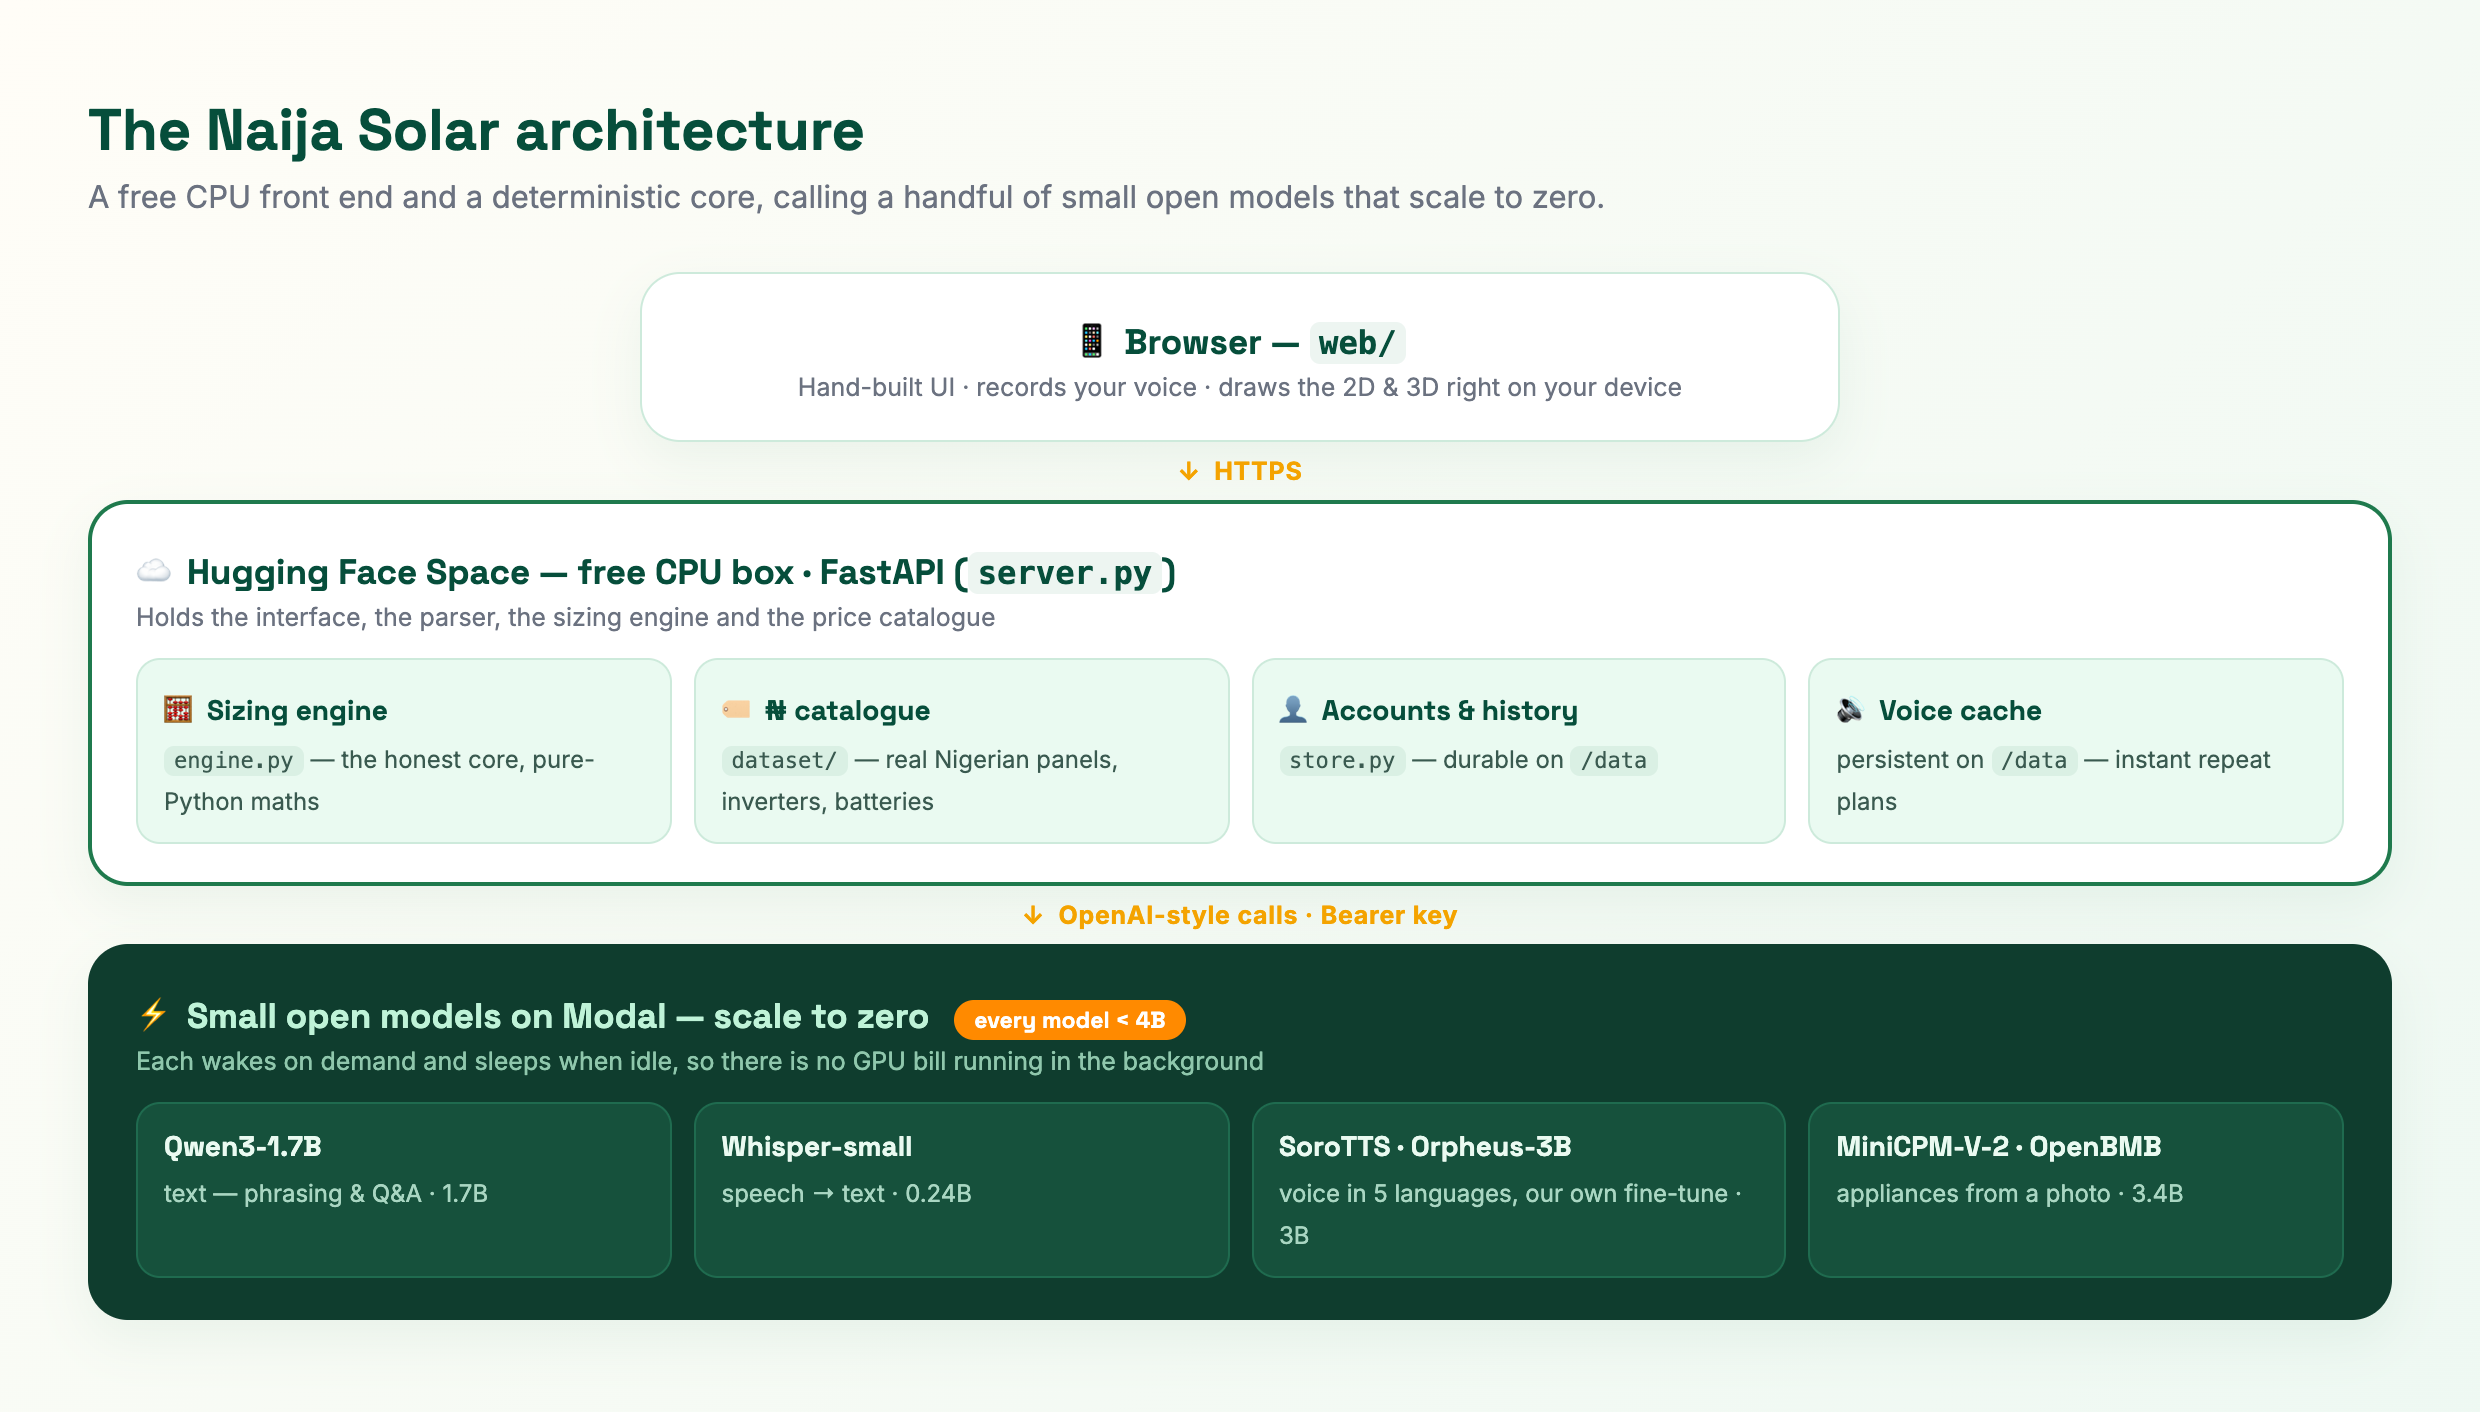
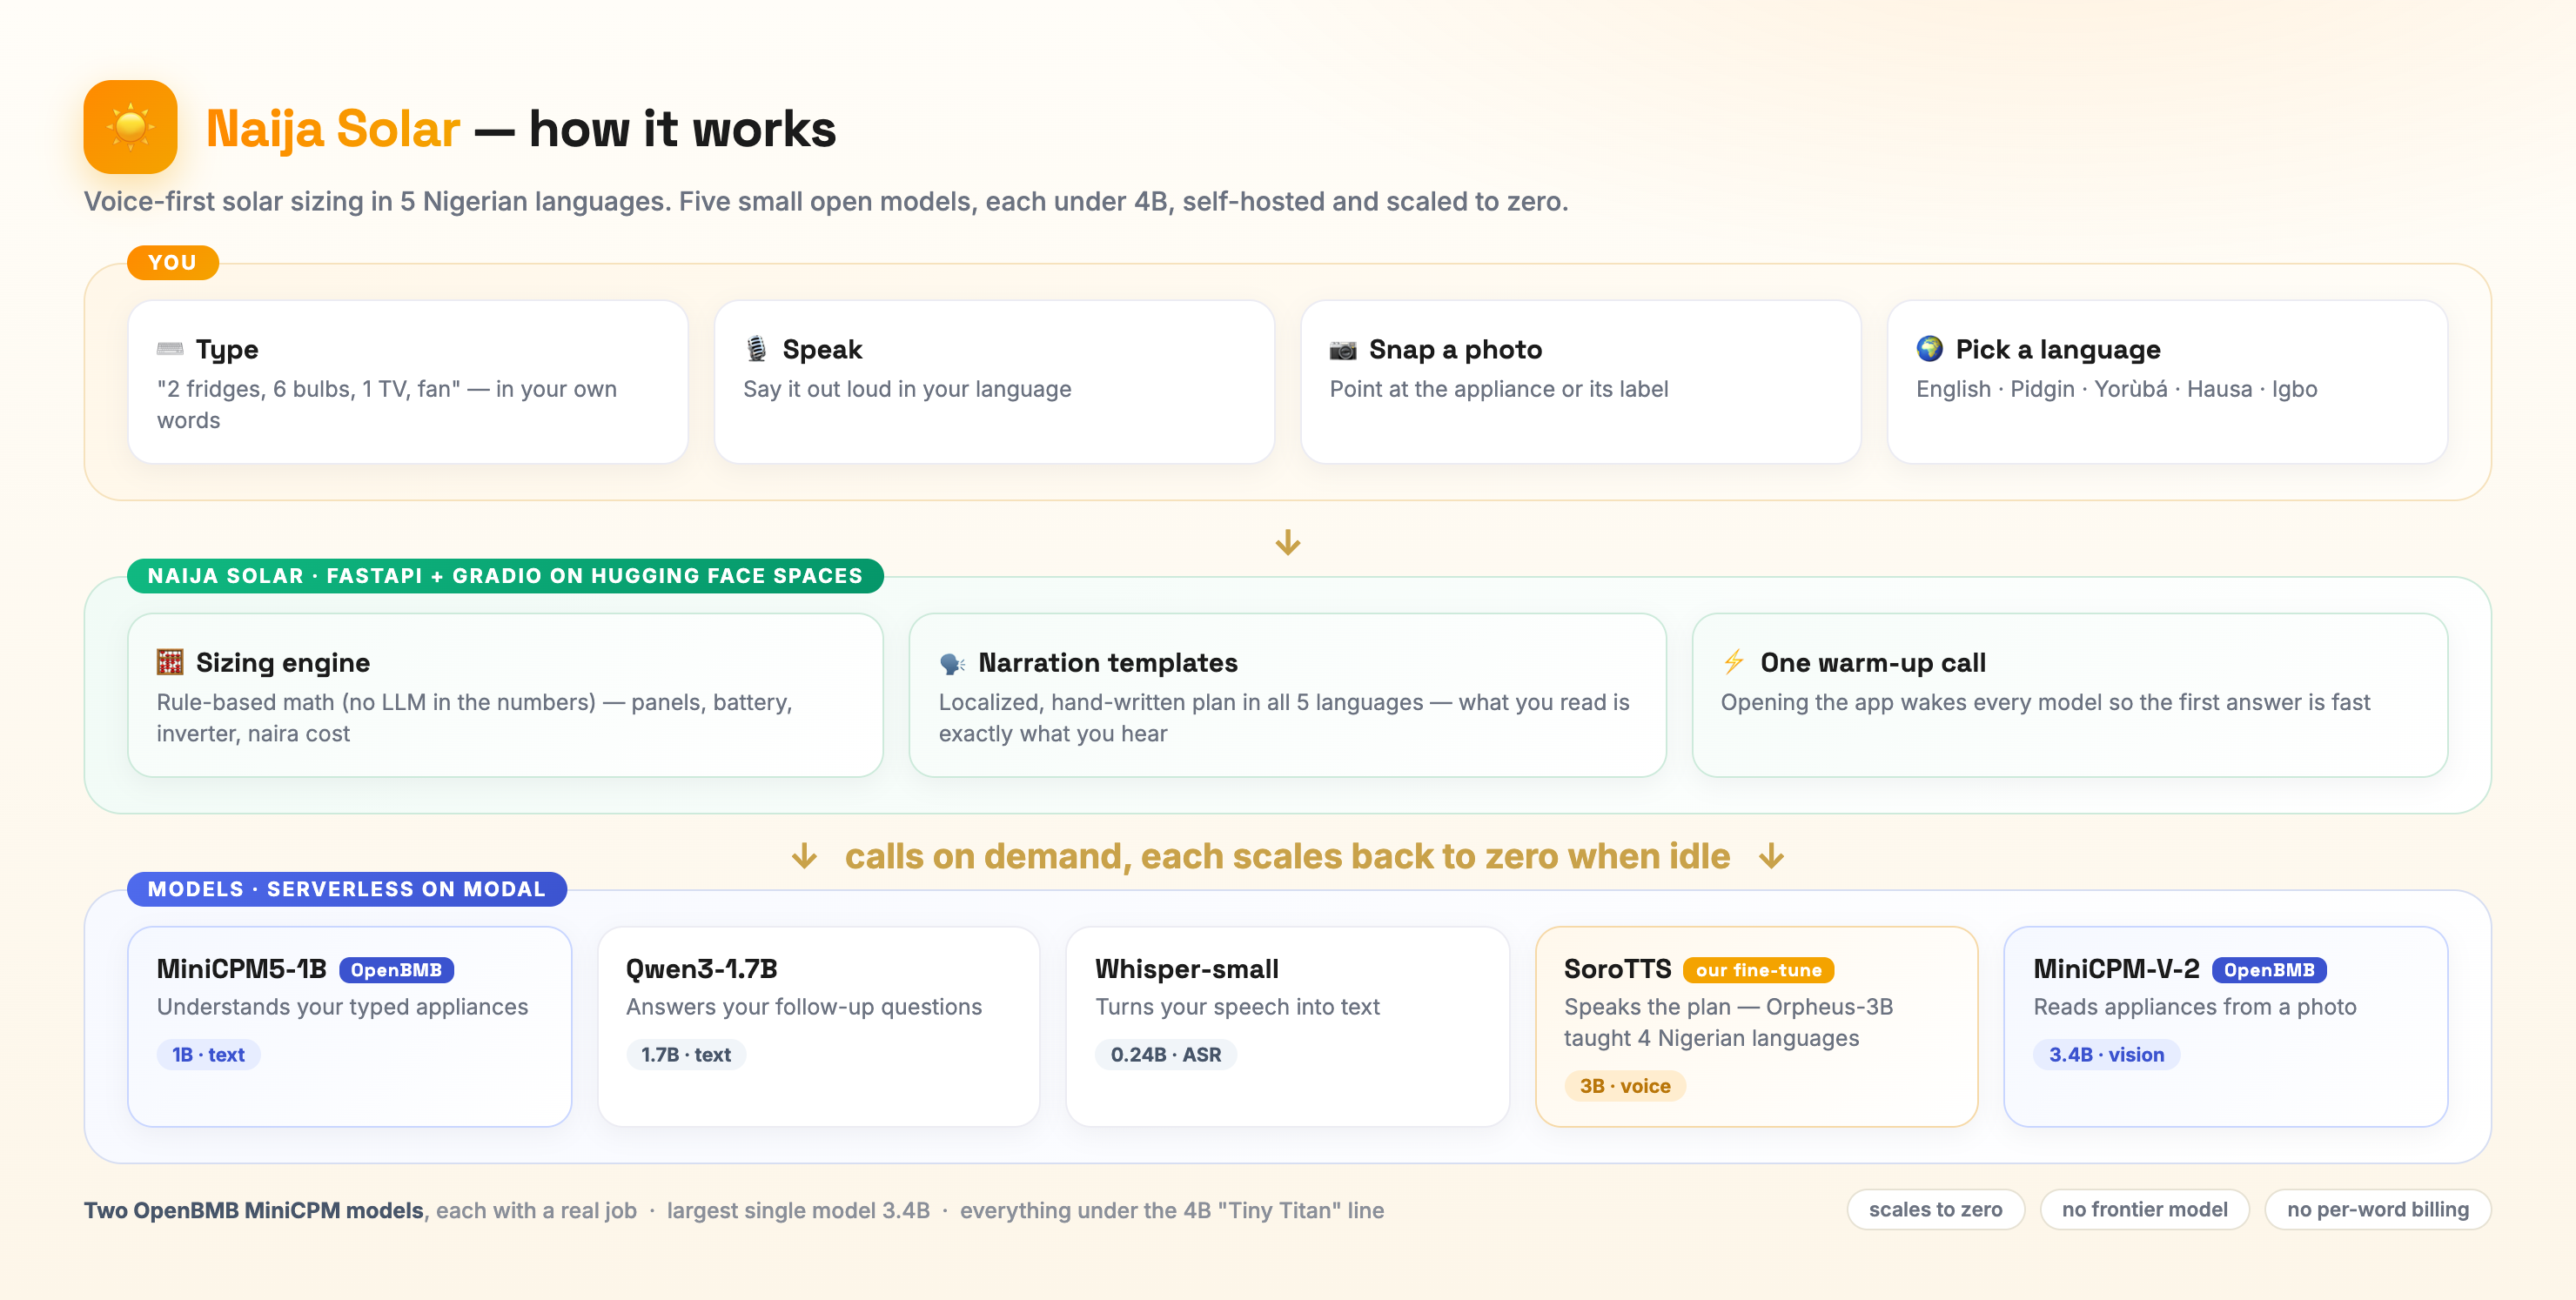
Docs: MiniCPM5-1B understands appliances + Qwen answers Q&A (two OpenBMB MiniCPM); new architecture diagram

diff --git a/assets/arch.html b/assets/arch.html
@@ -1,0 +1,89 @@
+<!doctype html><html lang="en"><head><meta charset="utf-8">
+<style>
+  @import url('https://fonts.googleapis.com/css2?family=Space+Grotesk:wght@500;600;700&family=Inter:wght@400;500;600;700&display=swap');
+  *{margin:0;padding:0;box-sizing:border-box}
+  body{font-family:'Inter',system-ui,sans-serif;background:#fff}
+  .wrap{width:1480px;padding:46px 48px 40px;background:
+      radial-gradient(900px 360px at 80% -8%,rgba(255,138,0,.10),transparent 60%),
+      linear-gradient(180deg,#fffdf8 0%,#fdf6e9 100%);}
+  .head{display:flex;align-items:center;gap:16px;margin-bottom:6px}
+  .logo{width:54px;height:54px;border-radius:16px;background:linear-gradient(135deg,#ff8a00,#f4a300);
+    display:flex;align-items:center;justify-content:center;font-size:30px;box-shadow:0 8px 22px rgba(244,163,0,.34)}
+  h1{font-family:'Space Grotesk',sans-serif;font-size:30px;color:#1b1b1b;letter-spacing:-.5px}
+  h1 b{background:linear-gradient(90deg,#ff8a00,#f4a300);-webkit-background-clip:text;background-clip:text;color:transparent}
+  .sub{color:#6b7280;font-size:15px;margin:3px 0 26px;font-weight:500}
+  .layer{border-radius:22px;padding:20px 24px;margin-bottom:14px;position:relative}
+  .ltag{position:absolute;top:-11px;left:24px;font-size:11.5px;font-weight:700;letter-spacing:.10em;
+    text-transform:uppercase;padding:3px 12px;border-radius:999px;color:#fff}
+  .l1{background:linear-gradient(135deg,#fff7e9,#fffdf8);border:1.6px solid #f6e2bd}
+  .l1 .ltag{background:linear-gradient(135deg,#ff8a00,#f4a300)}
+  .l2{background:linear-gradient(135deg,#f1fbf6,#fff);border:1.6px solid #cdeadb}
+  .l2 .ltag{background:linear-gradient(135deg,#10b981,#059669)}
+  .l3{background:linear-gradient(135deg,#f7f9ff,#fff);border:1.6px solid #d7def2}
+  .l3 .ltag{background:linear-gradient(135deg,#4f6bed,#3b53cf)}
+  .row{display:flex;gap:14px;flex-wrap:wrap}
+  .chip{flex:1;min-width:150px;background:#fff;border:1.4px solid #ececf3;border-radius:15px;padding:14px 16px;
+    box-shadow:0 4px 14px rgba(20,20,40,.05)}
+  .chip .t{font-family:'Space Grotesk',sans-serif;font-weight:700;font-size:15.5px;color:#1b1b1b}
+  .chip .d{color:#6b7280;font-size:12.7px;margin-top:3px;line-height:1.45}
+  .chip .p{display:inline-block;margin-top:9px;font-size:11px;font-weight:700;color:#475569;
+    background:#f1f5f9;border-radius:999px;padding:2px 9px}
+  .chip.bmb{border-color:#c9d6ff;background:linear-gradient(135deg,#f5f8ff,#fff)}
+  .chip.bmb .p{background:#e7edff;color:#3b53cf}
+  .chip.ours{border-color:#f6d9a8;background:linear-gradient(135deg,#fff8ec,#fff)}
+  .chip.ours .p{background:#ffedcf;color:#b9760a}
+  .badge{font-size:10.5px;font-weight:700;letter-spacing:.04em;border-radius:6px;padding:1px 7px;margin-left:7px;vertical-align:middle}
+  .badge.b{background:#3b53cf;color:#fff}
+  .badge.o{background:#f4a300;color:#fff}
+  .app{display:flex;gap:14px;flex-wrap:wrap}
+  .app .chip{border-color:#cdeadb;background:linear-gradient(135deg,#f6fcf9,#fff)}
+  .arrow{text-align:center;color:#c9a24a;font-size:20px;line-height:1;margin:1px 0 9px;font-weight:700}
+  .foot{display:flex;justify-content:space-between;align-items:center;margin-top:14px;color:#8a8f99;font-size:12.5px;font-weight:500}
+  .foot b{color:#475569}
+  .pills{display:flex;gap:8px}
+  .pill{background:#fff;border:1.3px solid #e7e2d4;border-radius:999px;padding:4px 12px;font-size:11.5px;font-weight:600;color:#6b7280}
+</style></head>
+<body><div class="wrap">
+  <div class="head">
+    <div class="logo">☀️</div>
+    <div><h1><b>Naija Solar</b> — how it works</h1></div>
+  </div>
+  <div class="sub">Voice-first solar sizing in 5 Nigerian languages. Five small open models, each under 4B, self-hosted and scaled to zero.</div>
+
+  <div class="layer l1">
+    <div class="ltag">You</div>
+    <div class="row">
+      <div class="chip"><div class="t">⌨️ Type</div><div class="d">"2 fridges, 6 bulbs, 1 TV, fan" — in your own words</div></div>
+      <div class="chip"><div class="t">🎙️ Speak</div><div class="d">Say it out loud in your language</div></div>
+      <div class="chip"><div class="t">📷 Snap a photo</div><div class="d">Point at the appliance or its label</div></div>
+      <div class="chip"><div class="t">🌍 Pick a language</div><div class="d">English · Pidgin · Yorùbá · Hausa · Igbo</div></div>
+    </div>
+  </div>
+  <div class="arrow">↓</div>
+
+  <div class="layer l2">
+    <div class="ltag">Naija Solar · FastAPI + Gradio on Hugging Face Spaces</div>
+    <div class="app">
+      <div class="chip"><div class="t">🧮 Sizing engine</div><div class="d">Rule-based math (no LLM in the numbers) — panels, battery, inverter, naira cost</div></div>
+      <div class="chip"><div class="t">🗣️ Narration templates</div><div class="d">Localized, hand-written plan in all 5 languages — what you read is exactly what you hear</div></div>
+      <div class="chip"><div class="t">⚡ One warm-up call</div><div class="d">Opening the app wakes every model so the first answer is fast</div></div>
+    </div>
+  </div>
+  <div class="arrow">↓ &nbsp; calls on demand, each scales back to zero when idle &nbsp; ↓</div>
+
+  <div class="layer l3">
+    <div class="ltag">Models · serverless on Modal</div>
+    <div class="row">
+      <div class="chip bmb"><div class="t">MiniCPM5-1B<span class="badge b">OpenBMB</span></div><div class="d">Understands your typed appliances</div><span class="p">1B · text</span></div>
+      <div class="chip"><div class="t">Qwen3-1.7B</div><div class="d">Answers your follow-up questions</div><span class="p">1.7B · text</span></div>
+      <div class="chip"><div class="t">Whisper-small</div><div class="d">Turns your speech into text</div><span class="p">0.24B · ASR</span></div>
+      <div class="chip ours"><div class="t">SoroTTS<span class="badge o">our fine-tune</span></div><div class="d">Speaks the plan — Orpheus-3B taught 4 Nigerian languages</div><span class="p">3B · voice</span></div>
+      <div class="chip bmb"><div class="t">MiniCPM-V-2<span class="badge b">OpenBMB</span></div><div class="d">Reads appliances from a photo</div><span class="p">3.4B · vision</span></div>
+    </div>
+  </div>
+
+  <div class="foot">
+    <div><b>Two OpenBMB MiniCPM models</b>, each with a real job &nbsp;·&nbsp; largest single model 3.4B &nbsp;·&nbsp; everything under the 4B "Tiny Titan" line</div>
+    <div class="pills"><span class="pill">scales to zero</span><span class="pill">no frontier model</span><span class="pill">no per-word billing</span></div>
+  </div>
+</div></body></html>

diff --git a/web/index.html b/web/index.html
@@ -75,7 +75,8 @@
       <h2 data-i18n="why_h">Small models, real impact</h2>
       <p data-i18n="why_s"></p>
       <div class="modelgrid">
-        <div class="mcard"><div class="mrole" data-i18n="m_text">Understands you</div><div class="mname">Qwen3-1.7B</div><div class="mparam">1.7B</div></div>
+        <a class="mcard" href="https://huggingface.co/openbmb/MiniCPM5-1B" target="_blank" rel="noopener"><div class="mrole" data-i18n="m_text">Understands you</div><div class="mname">MiniCPM5-1B <span class="ext">↗</span></div><div class="mparam">1B · OpenBMB</div></a>
+        <div class="mcard"><div class="mrole" data-i18n="m_qa">Answers you</div><div class="mname">Qwen3-1.7B</div><div class="mparam">1.7B</div></div>
         <div class="mcard"><div class="mrole" data-i18n="m_asr">Hears you</div><div class="mname">Whisper small</div><div class="mparam">0.24B</div></div>
         <a class="mcard feat" href="https://huggingface.co/Shinzmann/sorotts" target="_blank" rel="noopener">
           <div class="mrole" data-i18n="m_voice">Speaks your language</div>
@@ -84,7 +85,7 @@
         </a>
         <a class="mcard" href="https://huggingface.co/openbmb/MiniCPM-V-2" target="_blank" rel="noopener"><div class="mrole" data-i18n="m_vision">Reads your photos</div><div class="mname">MiniCPM-V-2 <span class="ext">↗</span></div><div class="mparam">3.4B · OpenBMB</div></a>
       </div>
-      <p class="modelnote" data-i18n="models_note">SoroTTS is our own fine-tune of Orpheus-3B, taught to speak Yorùbá, Hausa, Igbo, and Pidgin. Every model is under 4B, self-hosted on Modal, and scales to zero when idle.</p>
+      <p class="modelnote" data-i18n="models_note">SoroTTS is our own fine-tune of Orpheus-3B, taught to speak Yorùbá, Hausa, Igbo, and Pidgin. Two of the five models are OpenBMB MiniCPM, one reads your typed appliances and one reads them from a photo. Every model is under 4B, self-hosted on Modal, and scales to zero when idle.</p>
       <div class="linkrow">
         <a class="linkbtn primary" href="https://huggingface.co/Shinzmann/sorotts" target="_blank" rel="noopener">🔊 <span data-i18n="lnk_soro">The SoroTTS voice model</span></a>
         <a class="linkbtn" href="https://github.com/Mystique1337/naija-solar" target="_blank" rel="noopener">💻 <span data-i18n="lnk_git">View the code on GitHub</span></a>

diff --git a/README.md b/README.md
@@ -84,12 +84,13 @@ A guided first-run tour walks every new user through the app, in their own langu
 
 | Role | Model | Params |
 |---|---|---|
-| Text (Q&A, parsing) | `openbmb/MiniCPM5-1B` (OpenBMB MiniCPM) | **1B** |
+| Appliance understanding (free-text) | `openbmb/MiniCPM5-1B` (OpenBMB MiniCPM) | **1B** |
+| Follow-up Q&A | `Qwen/Qwen3-1.7B` | **1.7B** |
 | Speech to text | `openai/whisper-small` | **0.24B** |
 | Voice (all 5 languages) | **[SoroTTS](https://huggingface.co/Shinzmann/sorotts)**, our own Orpheus-3B fine-tune | **3B** |
 | Vision (appliances from a photo) | `openbmb/MiniCPM-V-2` (OpenBMB MiniCPM) | **3.4B** |
 
-**Two of the four models are OpenBMB MiniCPM** (`MiniCPM5-1B` for text, `MiniCPM-V-2` for the photo reader). The largest single model is **3.4B** (the MiniCPM-V vision model), comfortably under the 4B line. To stay within Modal's web-function cap, **one endpoint serves both `MiniCPM5-1B` and `Qwen/Qwen3-1.7B`** ([`modal/serving_text_dual.py`](modal/serving_text_dual.py)), routing by the requested model name, so a sibling deployment can keep using Qwen with no extra GPU. Everything is self-hosted on **Modal**, where each model wakes on demand and scales back to zero when idle, so there is no GPU bill running in the background.
+**Two of the five models are OpenBMB MiniCPM**, each with a real job: `MiniCPM5-1B` reads your free-text appliances when you type something messy, and `MiniCPM-V-2` reads appliances straight from a photo. `Qwen3-1.7B` answers your follow-up questions. The largest single model is **3.4B** (the MiniCPM-V vision model), comfortably under the 4B line. To stay within Modal's web-function cap, **one endpoint serves both `MiniCPM5-1B` and `Qwen/Qwen3-1.7B`** ([`modal/serving_text_dual.py`](modal/serving_text_dual.py)), routing by the requested model name, so no extra GPU is needed. Everything is self-hosted on **Modal**, where each model wakes on demand and scales back to zero when idle, so there is no GPU bill running in the background.
 
 To keep the five languages dependable, the **words** of the spoken plan come from carefully written, localized templates rather than a small model, because a 1.7B model is not reliable at Yorùbá, Hausa, or Igbo prose yet. The same templates are what you see written on screen, so the words you read are exactly the words you hear.
 
@@ -163,7 +164,7 @@ Each model has a serving script in `modal/`. Deploy the ones you need and point 
 
 ```bash
 pip install modal && modal token new
-modal deploy modal/serving_vllm.py       # text (Qwen3-1.7B)
+modal deploy modal/serving_text_dual.py  # text: MiniCPM5-1B (understanding) + Qwen3-1.7B (Q&A) in one slot
 modal deploy modal/serving_whisper.py    # speech to text
 modal deploy modal/serving_tts.py        # voice (SoroTTS, our Orpheus-3B fine-tune)
 modal deploy modal/serving_minicpm.py    # vision (MiniCPM-V-2, OpenBMB), primary

diff --git a/ARTICLE.md b/ARTICLE.md
@@ -88,7 +88,7 @@ The front end is an ordinary Hugging Face Space on a free CPU box. It holds the 
 
 There is a quiet rule behind the whole project. Every model Naija Solar uses is under four billion parameters.
 
-This is not a stunt. It is the point. An app meant for everyday Nigerians has to be cheap to run, or it will never survive past a demo. So the language work runs on Qwen3 at 1.7 billion parameters, speech recognition runs on a small Whisper model, reading appliances from a photo runs on MiniCPM-V, OpenBMB's small open vision model, and the voice comes from a three billion parameter model I fine-tuned myself. The largest single piece is still under four billion, and the whole stack scales to zero when it is idle. There is no frontier model behind the curtain and no per word billing to worry about. Small, open models can carry a real product if you give them the right jobs.
+This is not a stunt. It is the point. An app meant for everyday Nigerians has to be cheap to run, or it will never survive past a demo. So the app reads your typed appliances with MiniCPM5-1B and answers your follow-up questions with Qwen3 at 1.7 billion parameters, speech recognition runs on a small Whisper model, reading appliances from a photo runs on MiniCPM-V, OpenBMB's small open vision model, and the voice comes from a three billion parameter model I fine-tuned myself. Two of those are OpenBMB's small open MiniCPM models, each given a real job. The largest single piece is still under four billion, and the whole stack scales to zero when it is idle. There is no frontier model behind the curtain and no per word billing to worry about. Small, open models can carry a real product if you give them the right jobs.
 
 To keep the five languages dependable, the explanation for Pidgin, Yoruba, Hausa, and Igbo comes from carefully written templates rather than the small model, because a 1.7 billion parameter model is not reliable at those languages yet. The words you read on screen are exactly the words you hear, so nothing drifts between the two. That single choice is what makes the promise hold: pick Yoruba, and you really do get Yoruba.
 
@@ -114,7 +114,7 @@ Right now the app sizes a system, writes it out, and speaks it back. Accounts an
 
 - **Frontend:** hand-built HTML, CSS, and vanilla JS with a Three.js 3D home, served by **FastAPI** on a free Hugging Face Space (CPU).
 - **Sizing:** a deterministic **Python** engine over a real Nigerian price catalogue. No model touches the maths.
-- **Models, all under 4B, self-hosted on Modal and scaled to zero:** Qwen3-1.7B (text and Q&A), Whisper-small (speech to text), **SoroTTS**, my own Orpheus-3B fine-tune (voice in 5 languages), and MiniCPM-V-2 from OpenBMB (appliances from a photo).
+- **Models, all under 4B, self-hosted on Modal and scaled to zero:** MiniCPM5-1B from OpenBMB (understands your typed appliances) and Qwen3-1.7B (answers your follow-up questions), Whisper-small (speech to text), **SoroTTS**, my own Orpheus-3B fine-tune (voice in 5 languages), and MiniCPM-V-2 from OpenBMB (appliances from a photo). Two of the five are OpenBMB MiniCPM models.
 - **Training:** the voice was fine-tuned with **Unsloth** (LoRA, r=64) over **SNAC**-encoded audio on an **NVIDIA B200**, training only 2.86% of the weights in about 31 minutes, the whole pipeline a single Modal job.
 
 ## See it, hear it, read the code